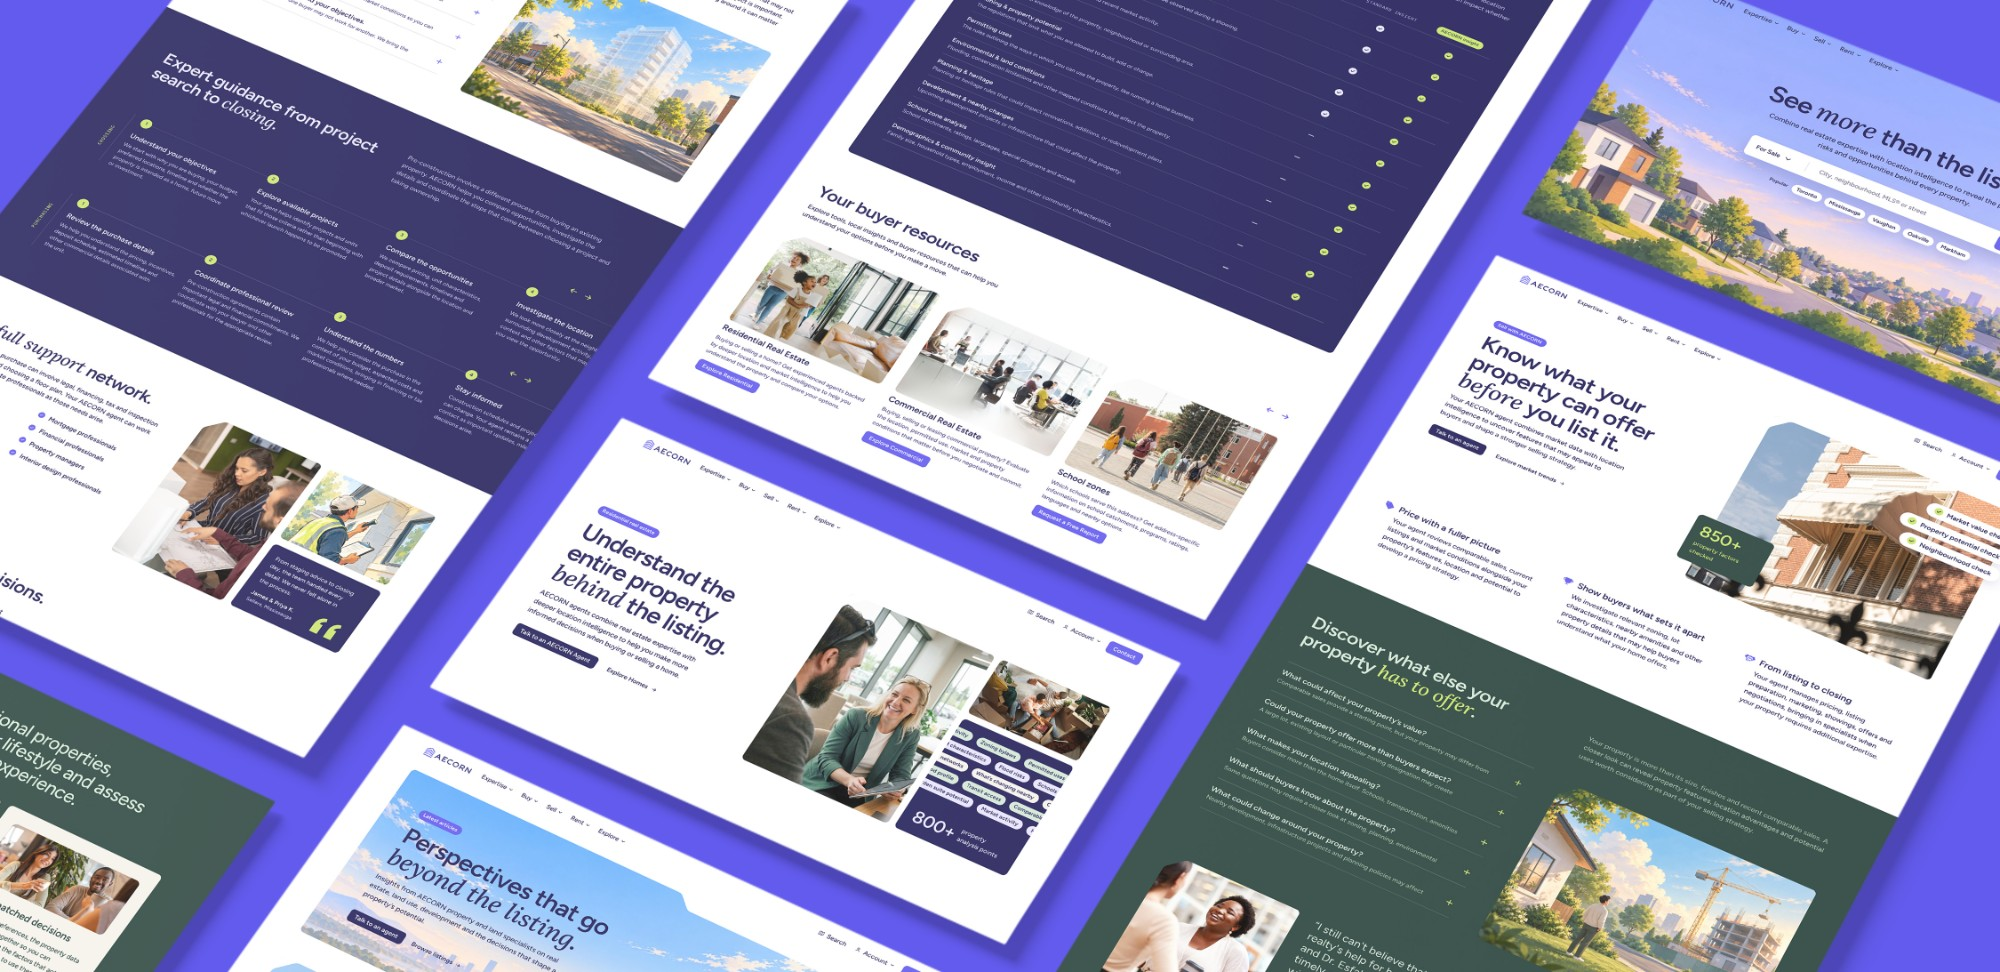
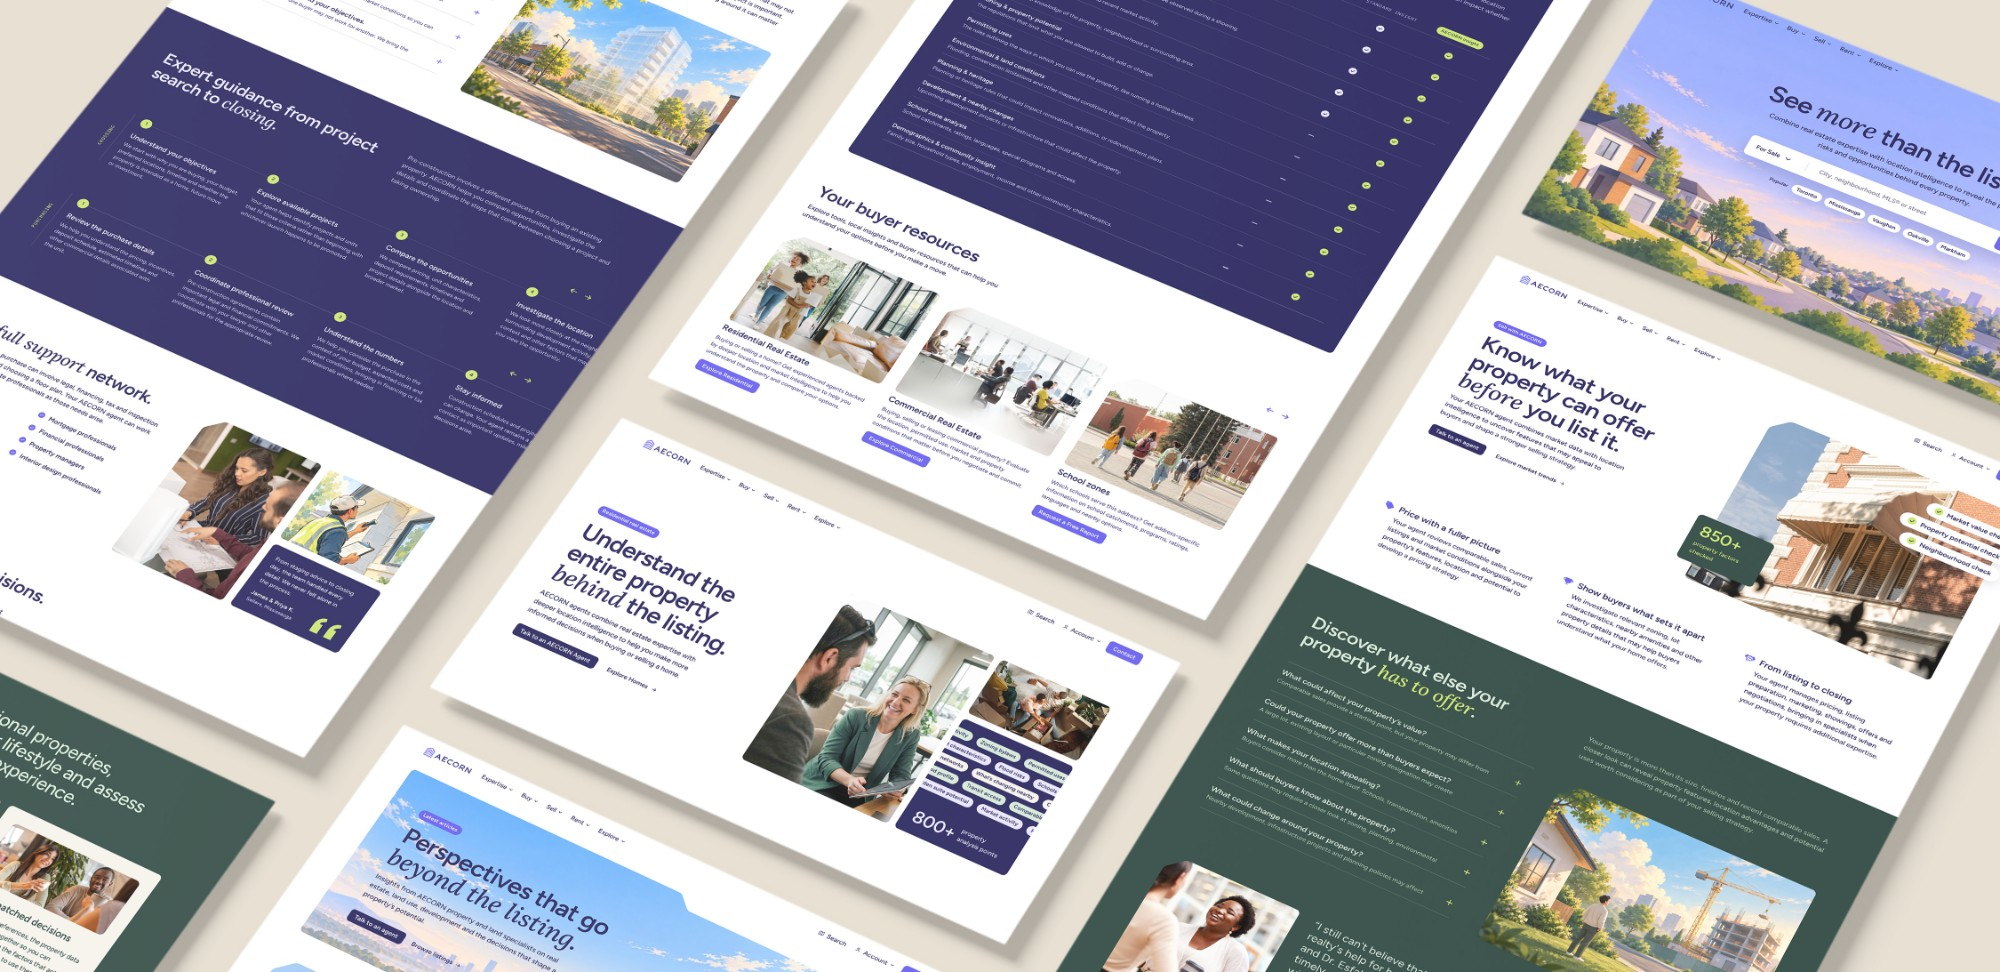
AECORN Realty draft: top web image on sand

diff --git a/design/Project - AECORN Realty.dc.html b/design/Project - AECORN Realty.dc.html
@@ -224,7 +224,7 @@
     </div>
   </div>
 
-  <img src="img/aecorn-website-isometric.jpg" alt="AECORN website pages laid out at an angle on purple" style="display:block;width:100%;height:auto;">
+  <img src="img/aecorn-website-isometric.jpg" alt="AECORN website pages laid out at an angle on sand" style="display:block;width:100%;height:auto;">
 
   <div style="display:grid;grid-template-columns:repeat(12,minmax(0,1fr));gap:24px;margin-top:24px;">
     <div style="grid-column:{{ col.span6 }};position:relative;aspect-ratio:1000/644;overflow:hidden;"><video ref="{{ videoRef }}" src="img/aecorn-web-hero-laptop.mp4" aria-label="AECORN website homepage scrolling on a laptop" autoplay="{{ true }}" loop="{{ true }}" muted="{{ true }}" playsinline="{{ true }}" style="position:absolute;inset:0;display:block;width:100%;height:100%;object-fit:cover;background:#F6F2EA;"></video><div aria-hidden="true" style="position:absolute;inset:0;pointer-events:none;box-shadow:inset 0 0 0 1px rgba(0,0,0,0.1);"></div></div>
